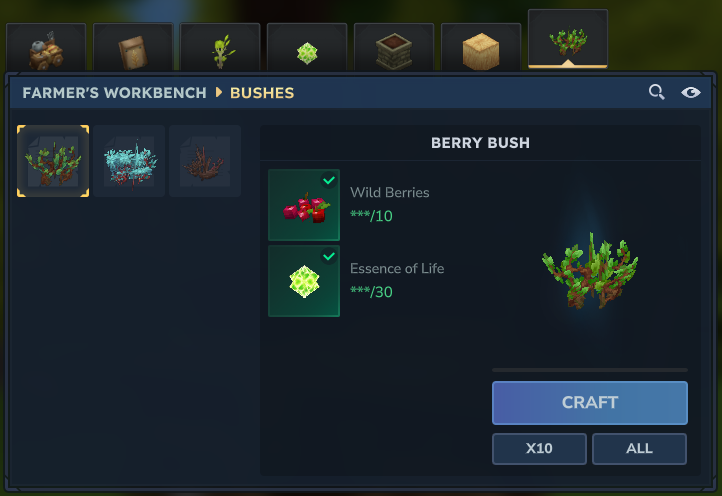
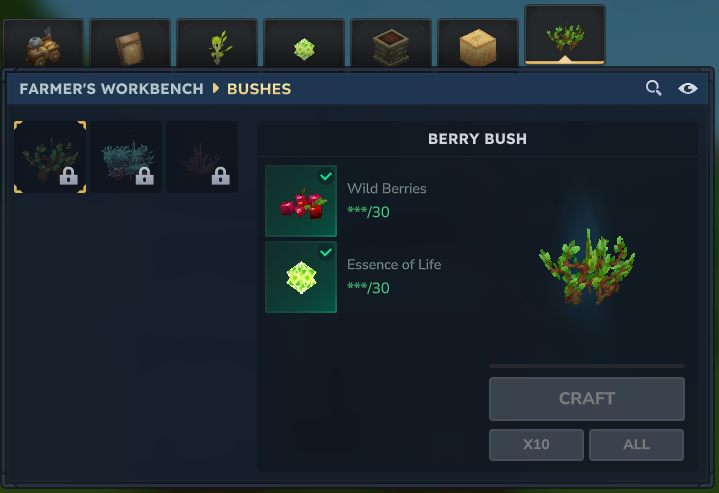
Increase berry cost and cleanup structure
- Increased berry cost for crafting bushes from 10 to 30
- Removed unnecessary entries from server.lang
- Reorganized recipe files into a dedicated folder
- Updated README.md

diff --git a/README.md b/README.md
@@ -6,7 +6,7 @@
 
 <p align="center">
   <a href="https://github.com/Vandreic/CraftableBerryBushes/releases">
-    <img src="https://img.shields.io/badge/release-v1.0.0-00BB1A.svg?style=plastic" alt="Release version" />
+    <img src="https://img.shields.io/badge/release-v1.0.1-00BB1A.svg?style=plastic" alt="Release version" />
   </a>
   <a href="https://opensource.org/license/gpl-3-0">
     <img src="https://img.shields.io/badge/license-GPLv3-blue.svg?style=plastic" alt="License" />
@@ -17,7 +17,7 @@
   A Hytale mod that adds craftable berry bushes to the Farmer’s Workbench.
 </p>
 
-***
+<hr style="width: 100%; height: 1px">
 
 A new **“Bushes”** category is added to the Farmer’s Workbench, allowing you to craft:
 
@@ -29,14 +29,21 @@ All bushes are crafted using **Wild Berries** and **Essence of Life**.
 
 ![Craftable Berry Bush](docs/0_craftable_berry_bush.png)
 
-***
+<details>
+<summary>More Screenshots</summary>
 
-### **Unlock Requirements**
+![Craftable Wet Berry Bush](docs/1_craftable_wet_berry_bush.png)
+
+![Craftable Winter Berry Bush](docs/2_craftable_winter_berry_bush.png)
+
+</details>
+
+## **Unlock Requirements**
 *   Tier 3: Berry Bush
 *   Tier 4: Wet Berry Bush
 *   Tier 5: Winter Berry Bush
 
-### **Why This Mod?**
+## **Why This Mod?**
 Berry bushes can normally be obtained by trading with the Rootling Merchant, but:
 
 *   The available quantity is limited.
@@ -46,3 +53,12 @@ Berry bushes can normally be obtained by trading with the Rootling Merchant, but
 This mod provides a balanced alternative by allowing players to craft berry bushes themselves through the Farmer’s Workbench.
 
 If you feel that crafting costs, unlock tiers, or overall balance should be adjusted, please let me know.
+
+## Installation
+
+1. [Download](https://github.com/Vandreic/CraftableBerryBushes/releases) the latest release.
+2. Put `CraftableBerryBushes.zip` in `C:\Users\<YourUser>\AppData\Roaming\Hytale\UserData\Mods`.
+3. Enable the mod before loading your world.
+
+## License
+Craftable Berry Bushes is released under the [GNU General Public License v3.0](LICENSE.md).
